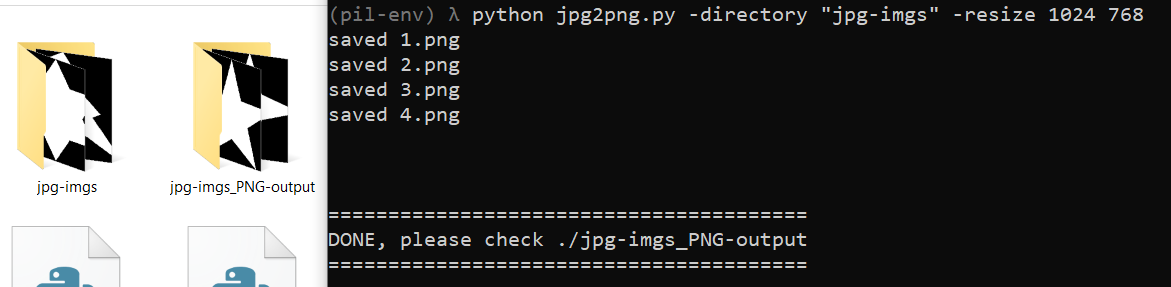
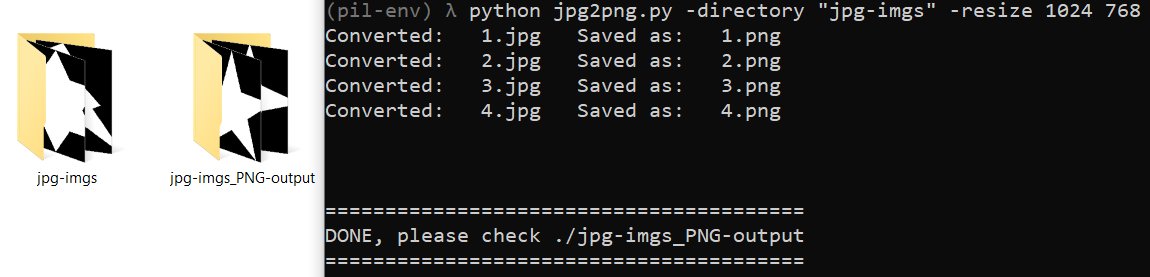
🚸 better terminal messages

diff --git a/jpg2png.py b/jpg2png.py
@@ -3,7 +3,7 @@ import sys
 from PIL import Image, PngImagePlugin
 
 def jpg2png(directory, width, height):
-    png_text = 'github.com/juanmx'
+    png_text = 'Imagen convertida y redimensionada con codigo obtenido de github.com/JuanMX/jpg2png'
 
     for img_name in os.listdir(directory):
         im = Image.open('./'+directory+'/'+img_name)
@@ -19,7 +19,7 @@ def jpg2png(directory, width, height):
 
         im_resized.save('./'+directory + output_directory_ends_with + '/' + img_name[:-4] + ".png", pnginfo=png_metadata)
         im.close()
-        print("saved " + img_name[:-4] + ".png")
+        print("Converted:   " + img_name + "   Saved as:   " + img_name[:-4] + ".png")
 
 
 def main():
@@ -43,7 +43,7 @@ def main():
         resize_height  = int(args[4])
     else:
         print("Source file needs to be executed like this: ")
-        print("jpg2png.py -directory directory_name -resize 1024 768")
+        print("   > python jpg2png.py -directory directory_name -resize 1024 768")
         print("The directory_name and this source code need to be in the same place")
         exit(1)
     if (os.path.isdir(work_directory) == False):

diff --git a/README.md b/README.md
@@ -6,7 +6,7 @@
 Código en **Python3** que usa [PIL](https://github.com/python-pillow/Pillow) para convertir **y redimensionar** todas las imágenes JPG de una carpeta (*nombre_carpeta*) a imágenes PNG. 
 Estas imágenes se guardan en una carpeta con terminación _PNG-output (*nombre_carpeta_PNG-output*).
 
-Además a las imágenes PNG se les agrega un texto como metadato. En este caso es "github.com/juanmx".
+Además a las imágenes PNG se les agrega un texto como metadato tipo [Image.info](https://pillow.readthedocs.io/en/stable/reference/Image.html#PIL.Image.Image.info). En este caso es "Imagen convertida y redimensionada con codigo obtenido de github.com/JuanMX/jpg2png".
 
 ## Decargar el proyecto, crear un entorno virtual e instalar las dependencias
 
@@ -88,7 +88,7 @@ El resultado es una carpeta `imgs_PNG-output` con las imágenes PNG de tamaño 1
 **Python3** source code. It uses [PIL](https://github.com/python-pillow/Pillow) in order to convert **and resize** all JPG images from certain directory (*directory_name*).
 The output PNG images are stored in other directory with *_PNG-output* termination (*directory_name_PNG-output*).
 
-Also a text metadata is appended to the output PNG images. In this case is "github.com/juanmx".
+Also a text metadata type [Image.info](https://pillow.readthedocs.io/en/stable/reference/Image.html#PIL.Image.Image.info) is appended to the output PNG images. In this case is "Imagen convertida y redimensionada con codigo obtenido de github.com/JuanMX/jpg2png".
 
 ## Download the project, create a virtual enviroment and install the dependencies
 
